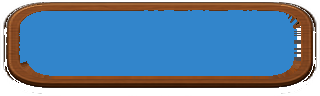
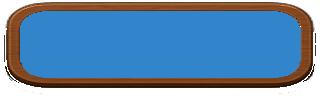
Rebuild cost-button chrome flush to wood without silver plate
Regenerate Bauen/Kaufen/Upgrade/Senden chrome from wood rim plus one
flat face (no silver base plate, dark lip filled). Sync wood CSS
insets to the new face edges for the 2% live-text overlay.

diff --git a/game/src/style.css b/game/src/style.css
@@ -694,9 +694,9 @@ select {
  */
 .match-shell.matchday .ar-cost-btn {
   /* Face bündig zur Holz-Innenkante; Live-Text +2% Abstand */
-  --wood-x: 5.62%;
-  --wood-y-top: 8.33%;
-  --wood-y-bot: 20.83%;
+  --wood-x: 5.94%;
+  --wood-y-top: 15.62%;
+  --wood-y-bot: 12.50%;
   --inset: 2%;
   position: relative;
   display: block;

diff --git a/docs/mockups/personen-action-card/index.html b/docs/mockups/personen-action-card/index.html
@@ -132,9 +132,9 @@
    */
   .cost-btn {
     /* Face bündig zur Holz-Innenkante; Live-Text +2% */
-    --wood-x: 5.62%;
-    --wood-y-top: 8.33%;
-    --wood-y-bot: 20.83%;
+    --wood-x: 5.94%;
+    --wood-y-top: 15.62%;
+    --wood-y-bot: 12.50%;
     --inset: 2%;
     appearance: none;
     border: 0;
